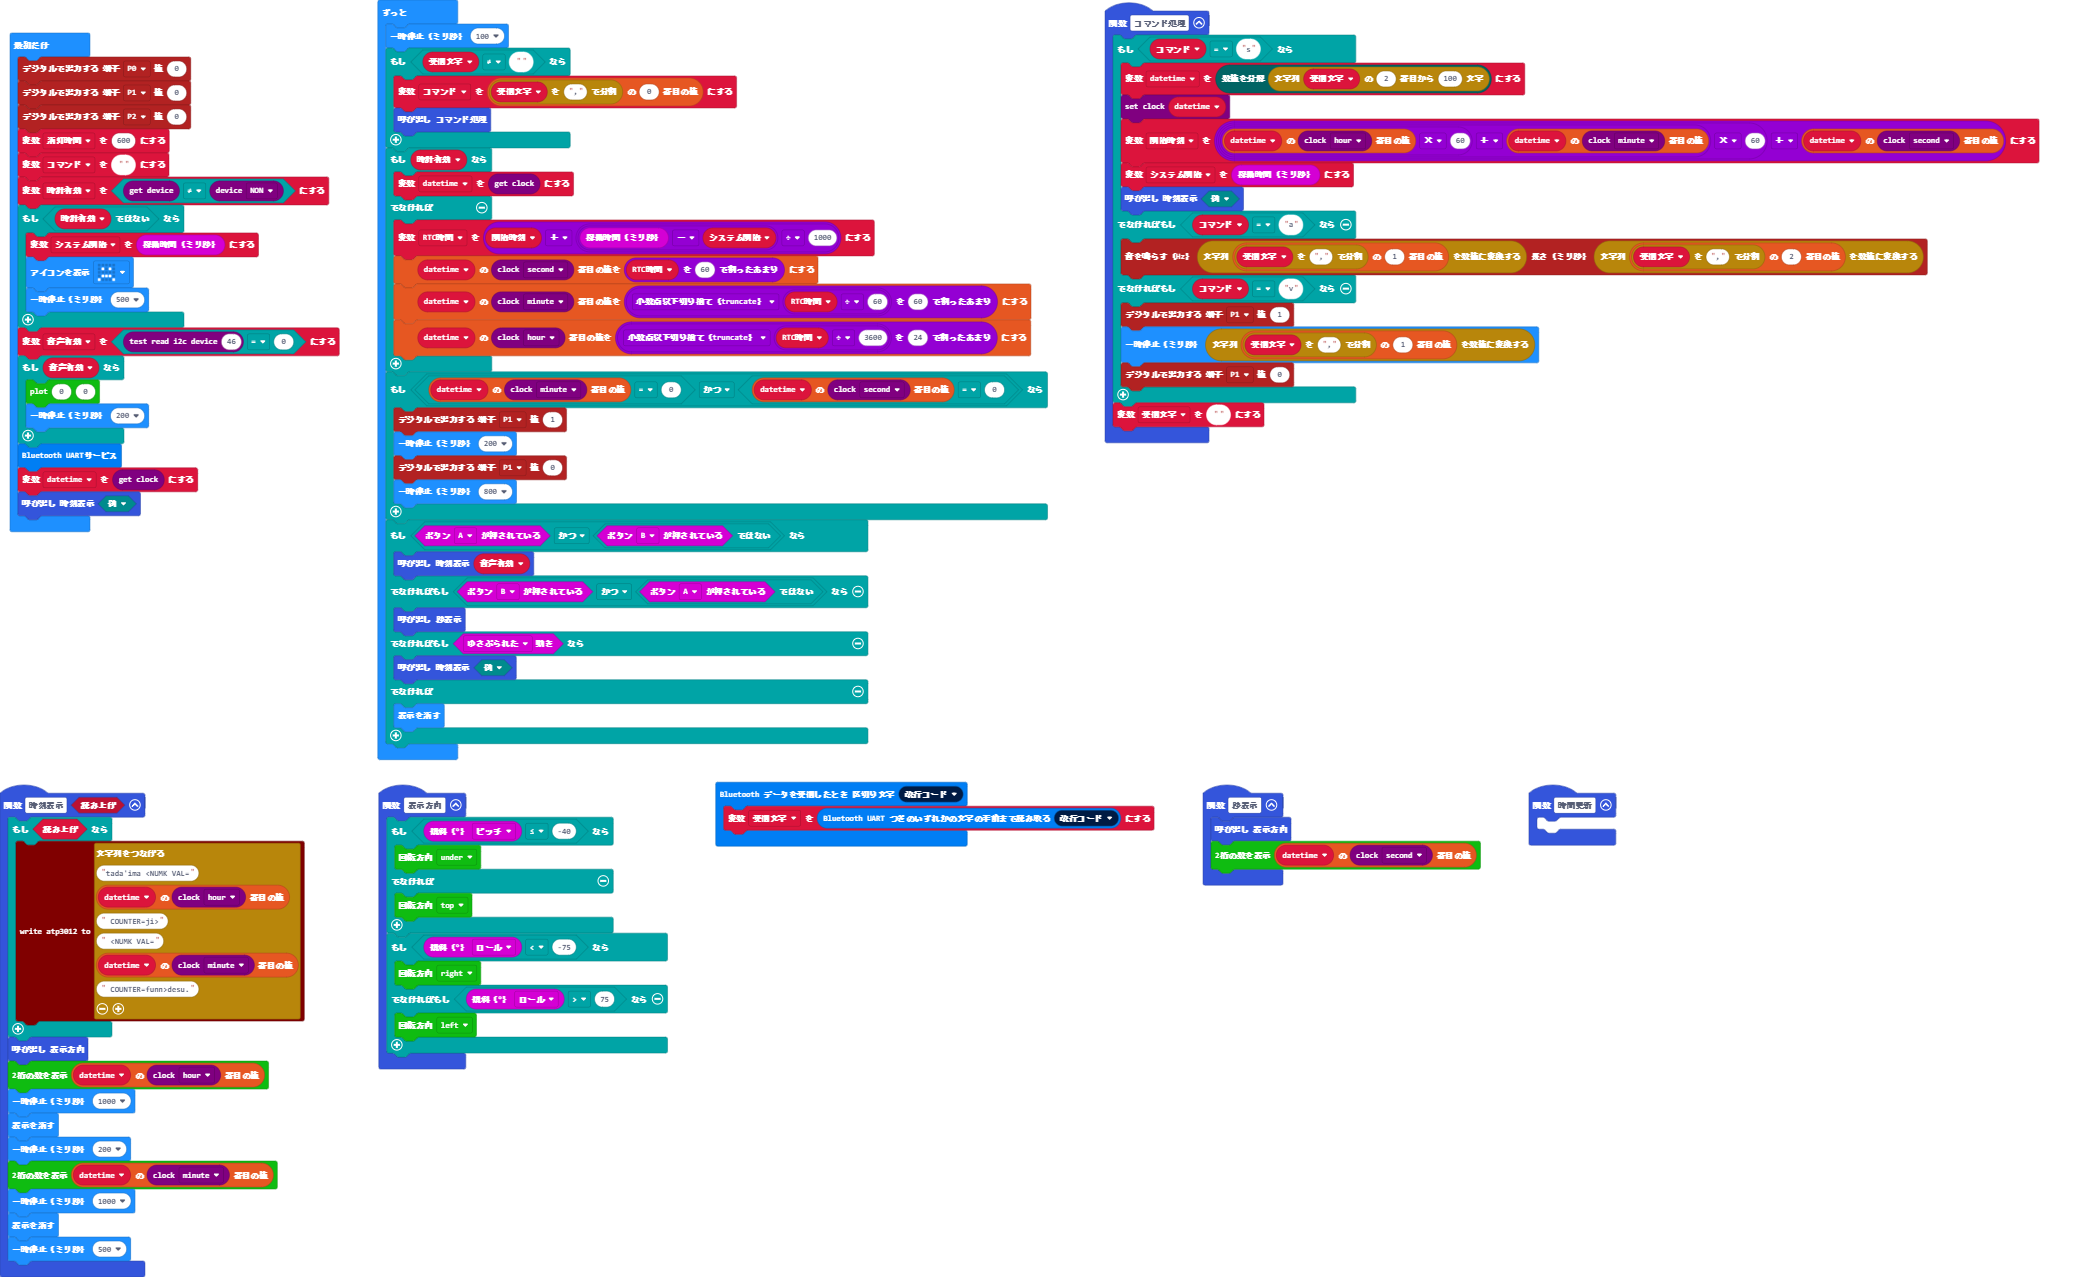
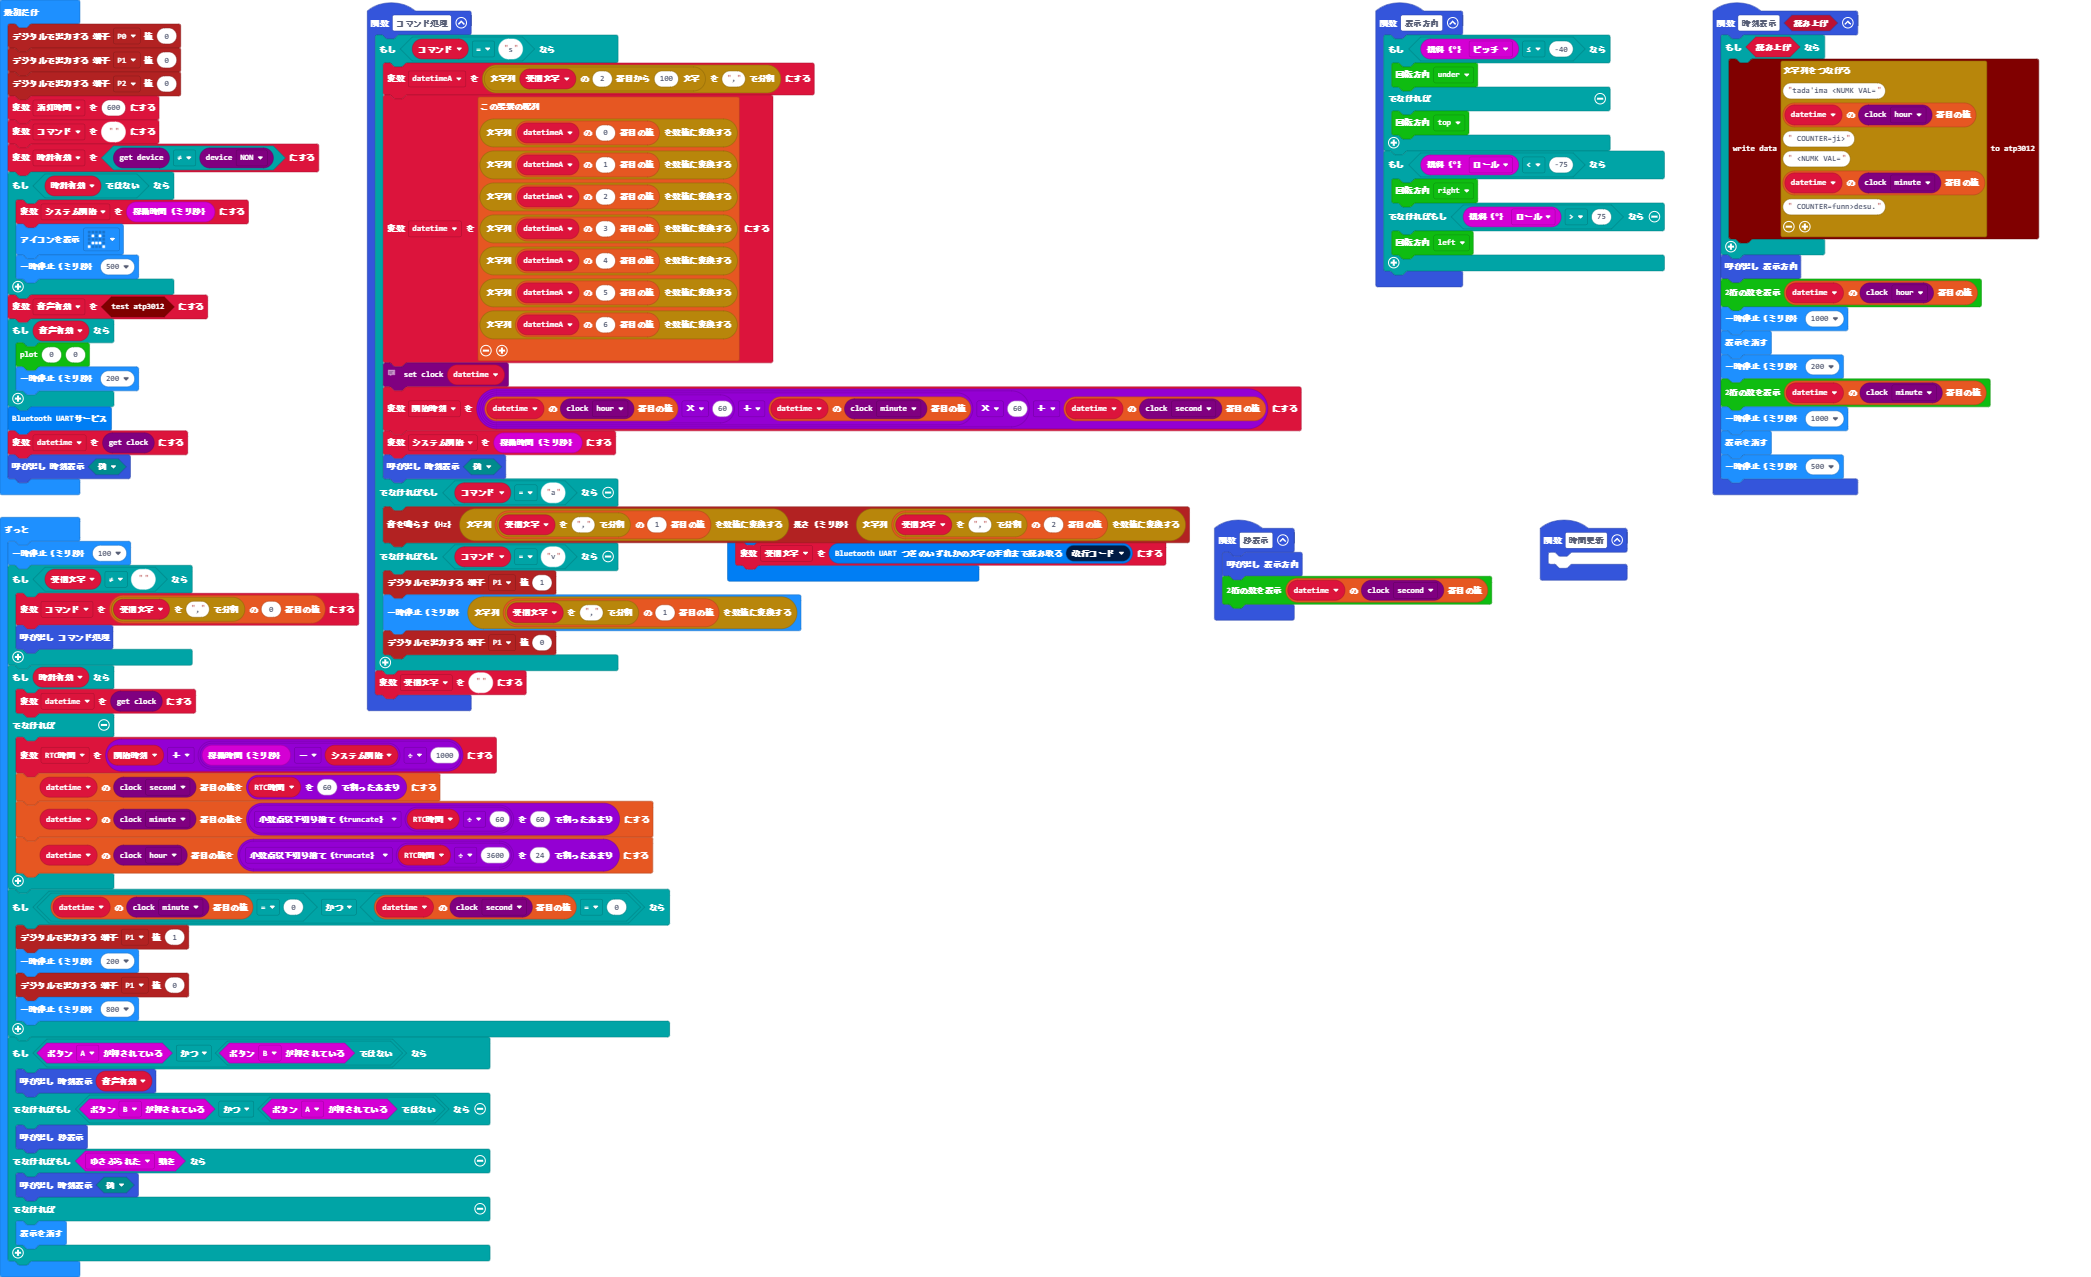
Update pxt.json, main.blocks, main.ts

diff --git a/main.ts b/main.ts
@@ -6,7 +6,9 @@ bluetooth.onUartDataReceived(serial.delimiters(Delimiters.NewLine), function () 
 })
 function コマンド処理 () {
     if (コマンド == "s") {
-        datetime = split.splitNum(受信文字.substr(2, 100))
+        datetimeA = 受信文字.substr(2, 100).split(",")
+        datetime = [parseFloat(datetimeA[0]), parseFloat(datetimeA[1]), parseFloat(datetimeA[2]), parseFloat(datetimeA[3]), parseFloat(datetimeA[4]), parseFloat(datetimeA[5]), parseFloat(datetimeA[6])]
+        // datetime = split.splitNum(受信文字.substr(2, 100))
         rtc.setClockArray(datetime)
         開始時刻 = (datetime[rtc.getClockData(clockData.hour)] * 60 + datetime[rtc.getClockData(clockData.minute)]) * 60 + datetime[rtc.getClockData(clockData.second)]
         システム開始 = input.runningTime()
@@ -52,6 +54,7 @@ function 時刻表示 (読み上げ: boolean) {
 }
 let RTC時間 = 0
 let 開始時刻 = 0
+let datetimeA: string[] = []
 let 受信文字 = ""
 let datetime: number[] = []
 let システム開始 = 0
@@ -67,7 +70,7 @@ if (!(時計有効)) {
     basic.showIcon(IconNames.Sad)
     basic.pause(500)
 }
-let 音声有効 = rtc.testReadI2c(46) == 0
+let 音声有効 = atp3012.isAvalable()
 if (音声有効) {
     watchfont.plot(0, 0)
     basic.pause(200)
